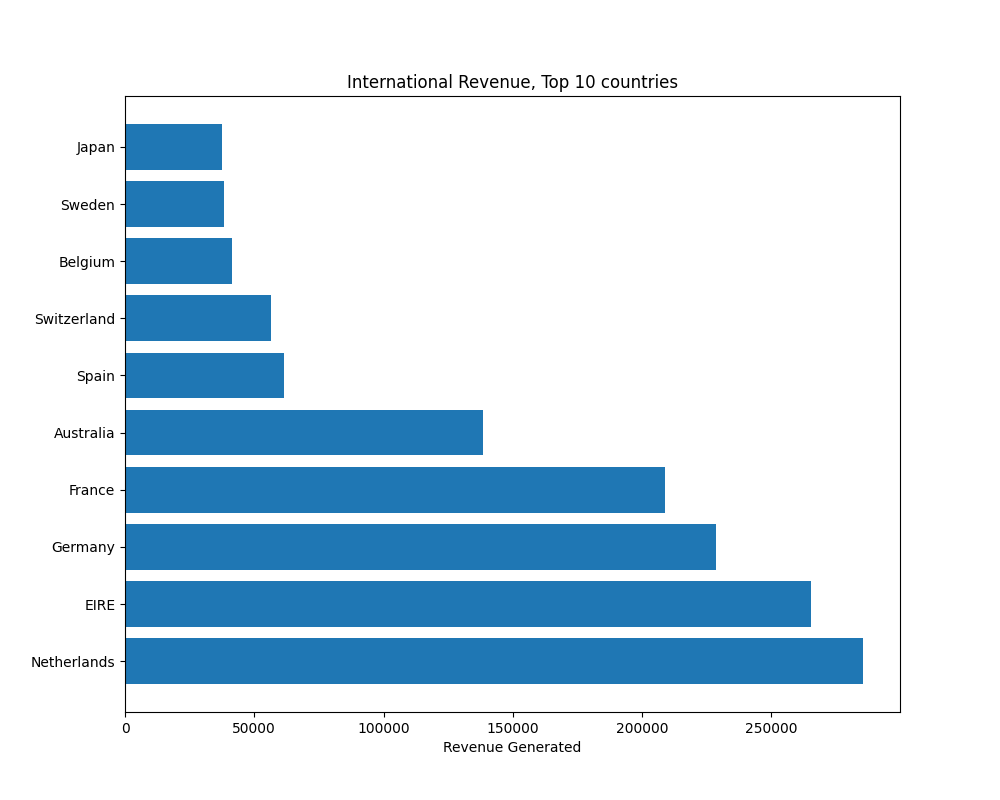
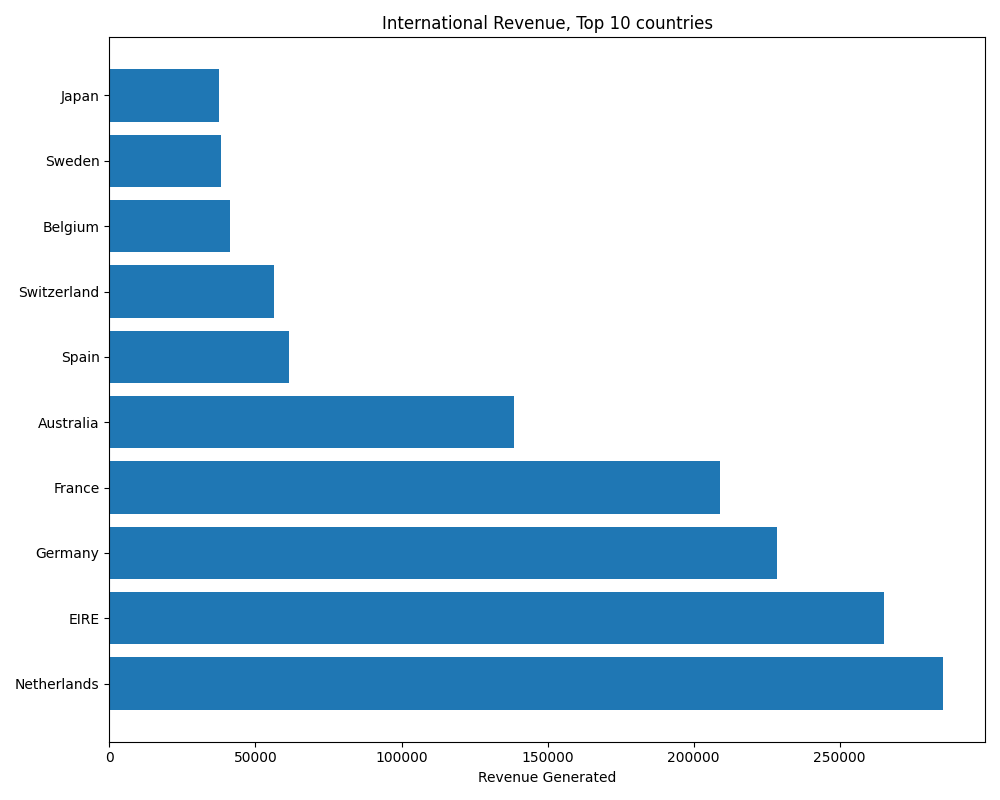
Update Script & Viz: Added tight_layout to viz a & b to match output across all viz

diff --git a/04_Customer_LTV_Analysis/python/q3_country_habits.py b/04_Customer_LTV_Analysis/python/q3_country_habits.py
@@ -39,6 +39,7 @@ ax.barh(top_10r.index, top_10r.values, label="Revenue by Country")
 ax.set_xlabel("Revenue Generated")
 ax.set_title("International Revenue, Top 10 countries")
 
+plt.tight_layout()
 plt.savefig("../outputs/q3a_rev_by_country.png")
 
 # - Plot for Average spend by customer per country
@@ -48,6 +49,7 @@ ax.barh(top_10a.index, top_10a.values, label="Avg Spend")
 ax.set_xlabel("Revenue Generated")
 ax.set_title("Average Spent by Customer, Top 10 countries")
 
+plt.tight_layout()
 plt.savefig("../outputs/q3b_cus_spend_country.png")
 
 # - Plot for Average Number of buys per customer per country
